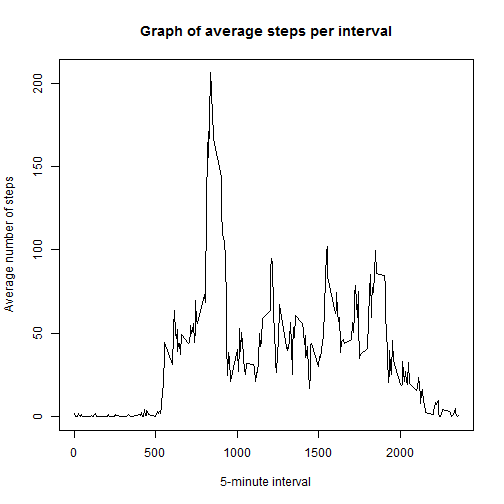
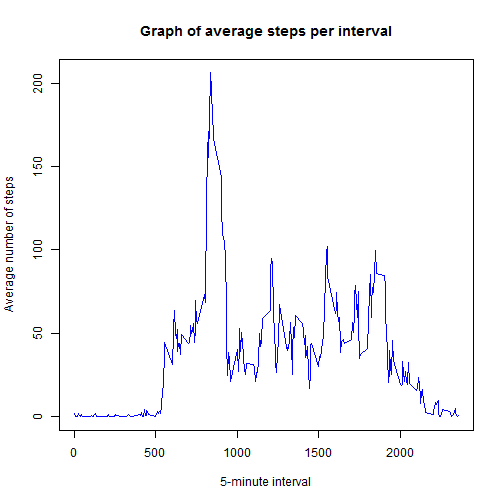
tidy up the graphs and report

diff --git a/PA1_template.html b/PA1_template.html
@@ -3,7 +3,7 @@
 <head>
 <meta http-equiv="Content-Type" content="text/html; charset=utf-8"/>
 
-<title>Loading and preprocessing the data</title>
+<title>Loading, preprocessing the data and analysis</title>
 
 <script type="text/javascript">
 window.onload = function() {
@@ -201,7 +201,7 @@ hr {
 </head>
 
 <body>
-<p>This is the a report that contains all the required information for &ldquo;Peer Assessment 1&rdquo; assignment.<br/>
+<p>This report contains all the required information for &ldquo;Peer Assessment 1&rdquo; assignment.<br/>
 The raw data was downloaded from <a href="https://d396qusza40orc.cloudfront.net/repdata%2Fdata%2Factivity.zip">https://d396qusza40orc.cloudfront.net/repdata%2Fdata%2Factivity.zip</a>.<br/>
 <strong>The raw data has to be in the *work directory</strong>*  </p>
 
@@ -213,9 +213,9 @@ The raw data was downloaded from <a href="https://d396qusza40orc.cloudfront.net/
 <li><strong>interval</strong>: Identifier for the 5-minute interval in which measurement was taken<br/></li>
 </ul>
 
-<h2>Loading and preprocessing the data</h2>
+<h2>Loading, preprocessing the data and analysis</h2>
 
-<p>First we will load the data.</p>
+<p>First I will unzip and load the data.</p>
 
 <pre><code class="r">library(dplyr)
 library(ggplot2)
@@ -223,11 +223,12 @@ unzip(&quot;activity.zip&quot;)
 data &lt;- read.csv(&quot;activity.csv&quot;)
 </code></pre>
 
-<p>Calculate number of total steps for each day and plot an histogram:</p>
+<p>Calculate number of total steps for each day and plot an histogram (I have chosen to break the histogram to 50 bins to get good resolution):</p>
 
 <pre><code class="r">sumByDate &lt;- summarise(group_by(data,date),TotalSteps = sum(steps,na.rm = TRUE))
 
 hist(sumByDate$TotalSteps,breaks = 50, 
+     col=&quot;red&quot;,
      main = paste(&quot;Histogram of total steps in day&quot;), 
      xlab = &quot;Total Steps&quot;)
 abline(v=mean(sumByDate$TotalSteps),col=&quot;blue&quot;,lwd=2)
@@ -254,10 +255,8 @@ legend(&quot;topright&quot;,
 <pre><code>## [1] 10395
 </code></pre>
 
-<h2>Imputing missing values</h2>
-
 <p>In this part we were required to plot an average of steps taken as function of 5-minute intervals.
-Therefore, we will first group the data by 5-minute invervals and then calculate an average per interval.</p>
+Therefore, I will first group the data by 5-minute invervals and then calculate an average per interval.</p>
 
 <pre><code class="r">averageByInterval &lt;- summarise(group_by(data,interval),average = mean(steps,na.rm = TRUE))
 </code></pre>
@@ -274,10 +273,11 @@ Therefore, we will first group the data by 5-minute invervals and then calculate
 
 <pre><code class="r">plot(averageByInterval$interval,averageByInterval$average,type=&quot;l&quot;,
      main = &quot;Graph of average steps per interval&quot;,
-     xlab = &quot;5-minute interval&quot;, ylab = &quot;Average number of steps&quot;)
+     xlab = &quot;5-minute interval&quot;, ylab = &quot;Average number of steps&quot;,
+     col=&quot;blue&quot;)
 </code></pre>
 
[2 lines of base64/hex data omitted]
 
 <p>As requested, number of rows containing &ldquo;NA&rdquo; is given by:</p>
 
@@ -287,7 +287,10 @@ Therefore, we will first group the data by 5-minute invervals and then calculate
 <pre><code>## [1] 2304
 </code></pre>
 
-<p>I will replace the number of steps where the steps is &ldquo;NA&rdquo; in an average value of steps for the related interval of the replaced row.<br/>
+<h2>Imputing missing values</h2>
+
+<p>The imputation rule is :<br/>
+Replacement of NAs with the average of number of steps for the relevant 5-minute interval.<br/>
 <strong>dataImputed</strong> is the variable name that will hold the same data holded in original table <strong>data</strong> but with imputed missing values</p>
 
 <pre><code class="r">dataImputed &lt;- data
@@ -303,7 +306,8 @@ for (i in naIndices) {
 
 hist(sumByDateImputed$TotalSteps,breaks = 50, 
      main = paste(&quot;Histogram of total steps in day - With imputed missing values&quot;), 
-     xlab = &quot;Total Steps&quot;)
+     xlab = &quot;Total Steps&quot;,
+     col=&quot;red&quot;)
 abline(v=mean(sumByDateImputed$TotalSteps),col=&quot;blue&quot;,lwd=2)
 abline(v=median(sumByDateImputed$TotalSteps),col=&quot;green&quot;,lwd=2)
 legend(&quot;topright&quot;,
@@ -312,7 +316,7 @@ legend(&quot;topright&quot;,
         lwd=c(2.5,2.5),col=c(&quot;blue&quot;,&quot;green&quot;))
 </code></pre>
 
[2 lines of base64/hex data omitted]
 
 <p>The mean and median on the data with the imputed missing values were calculated as following:</p>
 

diff --git a/PA1_template.md b/PA1_template.md
@@ -4,7 +4,7 @@ output:
   html_document: default
 ---
 
-This is the a report that contains all the required information for "Peer Assessment 1" assignment.  
+This report contains all the required information for "Peer Assessment 1" assignment.  
 The raw data was downloaded from <https://d396qusza40orc.cloudfront.net/repdata%2Fdata%2Factivity.zip>.  
 **The raw data has to be in the *work directory***  
 
@@ -13,9 +13,9 @@ The variables included in this dataset are:
 * **date**: The date on which the measurement was taken in YYYY-MM-DD format  
 * **interval**: Identifier for the 5-minute interval in which measurement was taken  
 
-## Loading and preprocessing the data
+## Loading, preprocessing the data and analysis
 
-First we will load the data.
+First I will unzip and load the data.
 
 ```r
 library(dplyr)
@@ -24,12 +24,13 @@ unzip("activity.zip")
 data <- read.csv("activity.csv")
 ```
   
-Calculate number of total steps for each day and plot an histogram:
+Calculate number of total steps for each day and plot an histogram (I have chosen to break the histogram to 50 bins to get good resolution):
 
 ```r
 sumByDate <- summarise(group_by(data,date),TotalSteps = sum(steps,na.rm = TRUE))
 
 hist(sumByDate$TotalSteps,breaks = 50, 
+     col="red",
      main = paste("Histogram of total steps in day"), 
      xlab = "Total Steps")
 abline(v=mean(sumByDate$TotalSteps),col="blue",lwd=2)
@@ -60,10 +61,9 @@ median(sumByDate$TotalSteps)
 ## [1] 10395
 ```
   
-## Imputing missing values
 
 In this part we were required to plot an average of steps taken as function of 5-minute intervals.
-Therefore, we will first group the data by 5-minute invervals and then calculate an average per interval.
+Therefore, I will first group the data by 5-minute invervals and then calculate an average per interval.
 
 ```r
 averageByInterval <- summarise(group_by(data,interval),average = mean(steps,na.rm = TRUE))
@@ -84,7 +84,8 @@ Using the calculated data we will plot the average number of steps per 5-minute 
 ```r
 plot(averageByInterval$interval,averageByInterval$average,type="l",
      main = "Graph of average steps per interval",
-     xlab = "5-minute interval", ylab = "Average number of steps")
+     xlab = "5-minute interval", ylab = "Average number of steps",
+     col="blue")
 ```
 
 ![plot of chunk plot average per interval](figure/plot average per interval-1.png) 
@@ -99,7 +100,10 @@ sum(is.na(data$steps))
 ## [1] 2304
 ```
   
-I will replace the number of steps where the steps is "NA" in an average value of steps for the related interval of the replaced row.  
+## Imputing missing values
+  
+The imputation rule is :  
+Replacement of NAs with the average of number of steps for the relevant 5-minute interval.  
 **dataImputed** is the variable name that will hold the same data holded in original table **data** but with imputed missing values
 
 ```r
@@ -117,7 +121,8 @@ sumByDateImputed <- summarise(group_by(dataImputed,date),TotalSteps = sum(steps,
 
 hist(sumByDateImputed$TotalSteps,breaks = 50, 
      main = paste("Histogram of total steps in day - With imputed missing values"), 
-     xlab = "Total Steps")
+     xlab = "Total Steps",
+     col="red")
 abline(v=mean(sumByDateImputed$TotalSteps),col="blue",lwd=2)
 abline(v=median(sumByDateImputed$TotalSteps),col="green",lwd=2)
 legend("topright",
